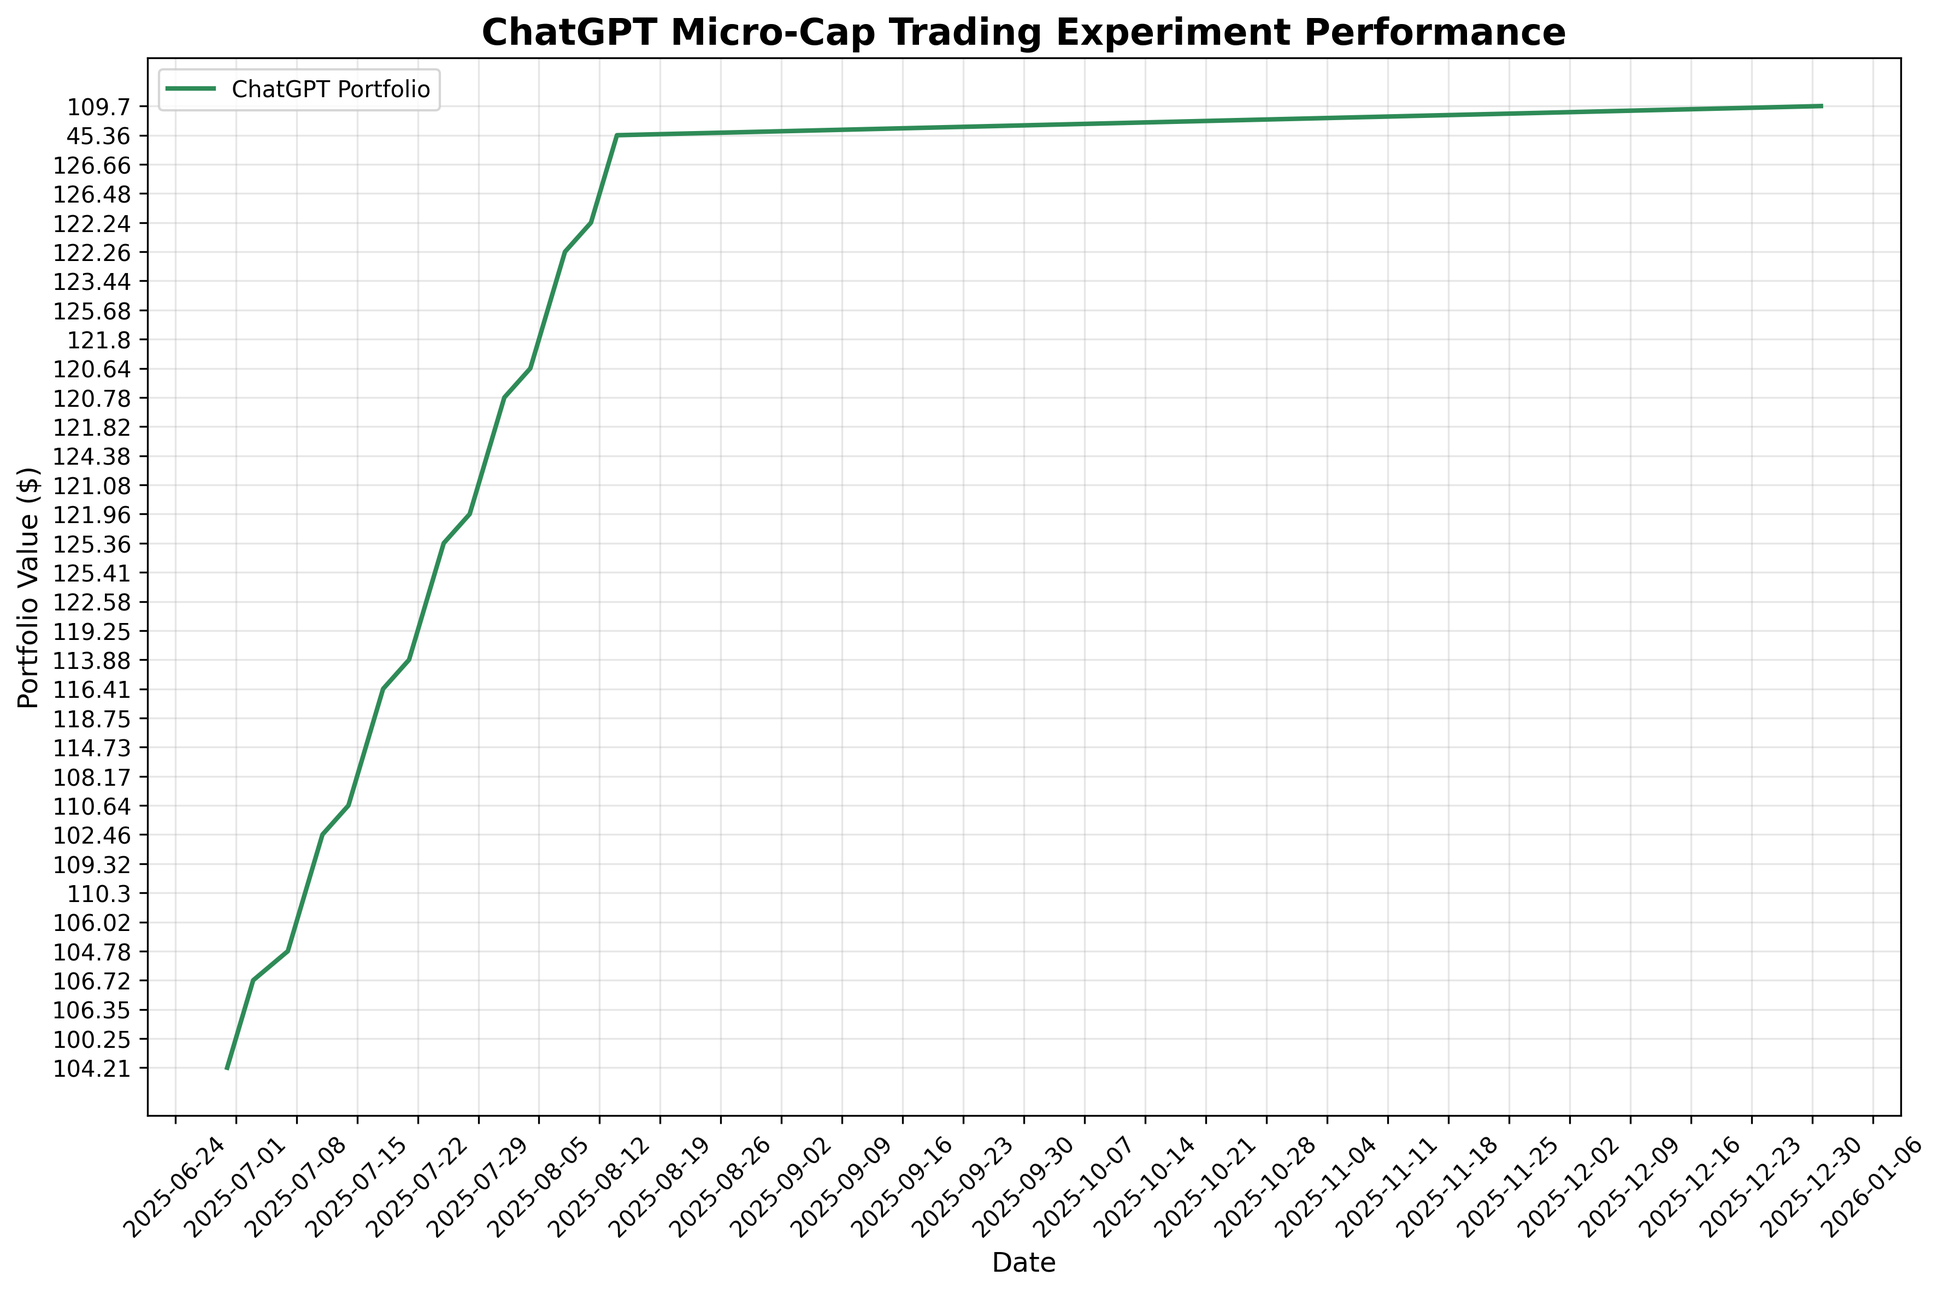
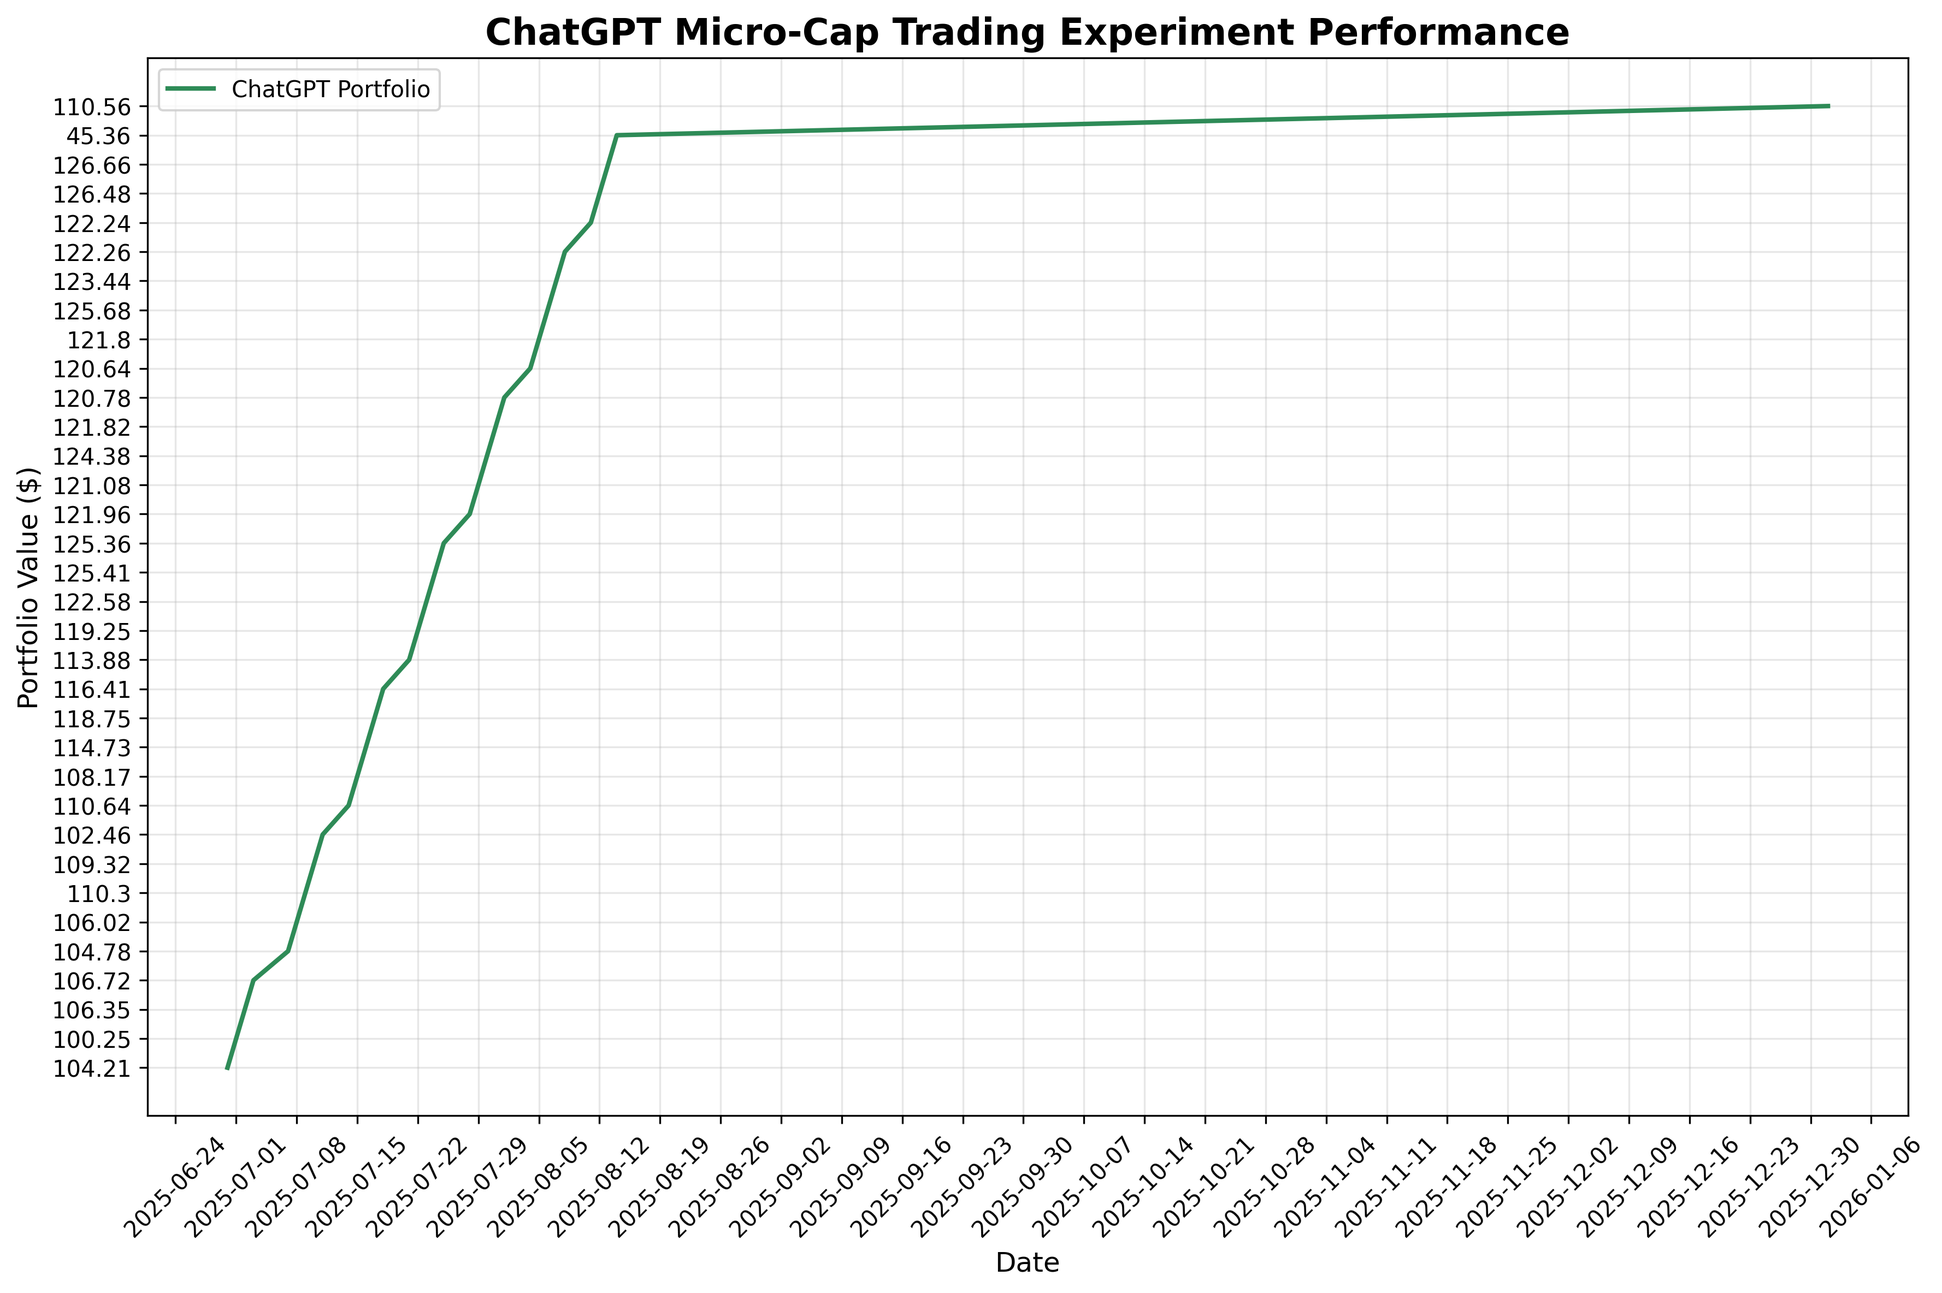
deploy: e15cad030d70fb3fbb51f9df6e22fa70c2f175c0

diff --git a/index.html b/index.html
@@ -105,7 +105,7 @@
                 <div class="stat-label">Total Trades</div>
             </div>
             <div class="stat-card">
-                <div class="stat-value" id="last-updated">2025-12-31</div>
+                <div class="stat-value" id="last-updated">2026-01-01</div>
                 <div class="stat-label">Last Updated</div>
             </div>
         </div>
@@ -160,7 +160,7 @@
     
     <script>
         // Portfolio data
-        const portfolioData = JSON.parse("[{&quot;Date&quot;: &quot;2025-08-11&quot;, &quot;Ticker&quot;: &quot;ABEO&quot;, &quot;Shares&quot;: 4.0, &quot;Buy Price&quot;: 5.77, &quot;Cost Basis&quot;: 23.08, &quot;Stop Loss&quot;: 4.9, &quot;Current Price&quot;: 6.28, &quot;Total Value&quot;: 25.12, &quot;PnL&quot;: 2.04, &quot;Action&quot;: &quot;HOLD&quot;, &quot;Cash Balance&quot;: NaN, &quot;Total Equity&quot;: NaN}, {&quot;Date&quot;: &quot;2025-08-11&quot;, &quot;Ticker&quot;: &quot;ACTU&quot;, &quot;Shares&quot;: 6.0, &quot;Buy Price&quot;: 5.75, &quot;Cost Basis&quot;: 34.5, &quot;Stop Loss&quot;: 4.89, &quot;Current Price&quot;: 8.01, &quot;Total Value&quot;: 48.06, &quot;PnL&quot;: 13.56, &quot;Action&quot;: &quot;HOLD&quot;, &quot;Cash Balance&quot;: NaN, &quot;Total Equity&quot;: NaN}, {&quot;Date&quot;: &quot;2025-08-11&quot;, &quot;Ticker&quot;: &quot;ESPR&quot;, &quot;Shares&quot;: 2.0, &quot;Buy Price&quot;: 1.91, &quot;Cost Basis&quot;: 3.82, &quot;Stop Loss&quot;: 1.6, &quot;Current Price&quot;: 1.85, &quot;Total Value&quot;: 3.7, &quot;PnL&quot;: -0.12, &quot;Action&quot;: &quot;HOLD&quot;, &quot;Cash Balance&quot;: NaN, &quot;Total Equity&quot;: NaN}, {&quot;Date&quot;: &quot;2025-08-11&quot;, &quot;Ticker&quot;: &quot;TOTAL&quot;, &quot;Shares&quot;: NaN, &quot;Buy Price&quot;: NaN, &quot;Cost Basis&quot;: NaN, &quot;Stop Loss&quot;: NaN, &quot;Current Price&quot;: NaN, &quot;Total Value&quot;: 76.88, &quot;PnL&quot;: 15.48, &quot;Action&quot;: NaN, &quot;Cash Balance&quot;: 45.36, &quot;Total Equity&quot;: &quot;122.24&quot;}, {&quot;Date&quot;: &quot;2025-08-12&quot;, &quot;Ticker&quot;: &quot;ABEO&quot;, &quot;Shares&quot;: 4.0, &quot;Buy Price&quot;: 5.77, &quot;Cost Basis&quot;: 23.08, &quot;Stop Loss&quot;: 4.9, &quot;Current Price&quot;: 6.38, &quot;Total Value&quot;: 25.52, &quot;PnL&quot;: 2.44, &quot;Action&quot;: &quot;HOLD&quot;, &quot;Cash Balance&quot;: NaN, &quot;Total Equity&quot;: NaN}, {&quot;Date&quot;: &quot;2025-08-12&quot;, &quot;Ticker&quot;: &quot;ACTU&quot;, &quot;Shares&quot;: 6.0, &quot;Buy Price&quot;: 5.75, &quot;Cost Basis&quot;: 34.5, &quot;Stop Loss&quot;: 4.89, &quot;Current Price&quot;: 8.67, &quot;Total Value&quot;: 52.02, &quot;PnL&quot;: 17.52, &quot;Action&quot;: &quot;HOLD&quot;, &quot;Cash Balance&quot;: NaN, &quot;Total Equity&quot;: NaN}, {&quot;Date&quot;: &quot;2025-08-12&quot;, &quot;Ticker&quot;: &quot;ESPR&quot;, &quot;Shares&quot;: 2.0, &quot;Buy Price&quot;: 1.91, &quot;Cost Basis&quot;: 3.82, &quot;Stop Loss&quot;: 1.6, &quot;Current Price&quot;: 1.79, &quot;Total Value&quot;: 3.58, &quot;PnL&quot;: -0.24, &quot;Action&quot;: &quot;HOLD&quot;, &quot;Cash Balance&quot;: NaN, &quot;Total Equity&quot;: NaN}, {&quot;Date&quot;: &quot;2025-08-12&quot;, &quot;Ticker&quot;: &quot;TOTAL&quot;, &quot;Shares&quot;: NaN, &quot;Buy Price&quot;: NaN, &quot;Cost Basis&quot;: NaN, &quot;Stop Loss&quot;: NaN, &quot;Current Price&quot;: NaN, &quot;Total Value&quot;: 81.12, &quot;PnL&quot;: 19.72, &quot;Action&quot;: NaN, &quot;Cash Balance&quot;: 45.36, &quot;Total Equity&quot;: &quot;126.48&quot;}, {&quot;Date&quot;: &quot;2025-08-13&quot;, &quot;Ticker&quot;: &quot;ABEO&quot;, &quot;Shares&quot;: 4.0, &quot;Buy Price&quot;: 5.77, &quot;Cost Basis&quot;: 23.08, &quot;Stop Loss&quot;: 4.9, &quot;Current Price&quot;: 6.56, &quot;Total Value&quot;: 26.24, &quot;PnL&quot;: 3.16, &quot;Action&quot;: &quot;HOLD&quot;, &quot;Cash Balance&quot;: NaN, &quot;Total Equity&quot;: NaN}, {&quot;Date&quot;: &quot;2025-08-13&quot;, &quot;Ticker&quot;: &quot;ACTU&quot;, &quot;Shares&quot;: 6.0, &quot;Buy Price&quot;: 5.75, &quot;Cost Basis&quot;: 34.5, &quot;Stop Loss&quot;: 4.89, &quot;Current Price&quot;: 8.53, &quot;Total Value&quot;: 51.18, &quot;PnL&quot;: 16.68, &quot;Action&quot;: &quot;HOLD&quot;, &quot;Cash Balance&quot;: NaN, &quot;Total Equity&quot;: NaN}, {&quot;Date&quot;: &quot;2025-08-13&quot;, &quot;Ticker&quot;: &quot;ESPR&quot;, &quot;Shares&quot;: 2.0, &quot;Buy Price&quot;: 1.91, &quot;Cost Basis&quot;: 3.82, &quot;Stop Loss&quot;: 1.6, &quot;Current Price&quot;: 1.94, &quot;Total Value&quot;: 3.88, &quot;PnL&quot;: 0.06, &quot;Action&quot;: &quot;HOLD&quot;, &quot;Cash Balance&quot;: NaN, &quot;Total Equity&quot;: NaN}, {&quot;Date&quot;: &quot;2025-08-13&quot;, &quot;Ticker&quot;: &quot;TOTAL&quot;, &quot;Shares&quot;: NaN, &quot;Buy Price&quot;: NaN, &quot;Cost Basis&quot;: NaN, &quot;Stop Loss&quot;: NaN, &quot;Current Price&quot;: NaN, &quot;Total Value&quot;: 81.3, &quot;PnL&quot;: 19.9, &quot;Action&quot;: NaN, &quot;Cash Balance&quot;: 45.36, &quot;Total Equity&quot;: &quot;126.66&quot;}, {&quot;Date&quot;: &quot;2025-08-14&quot;, &quot;Ticker&quot;: &quot;ABEO&quot;, &quot;Shares&quot;: 4.0, &quot;Buy Price&quot;: 5.77, &quot;Cost Basis&quot;: 23.08, &quot;Stop Loss&quot;: 4.9, &quot;Current Price&quot;: NaN, &quot;Total Value&quot;: NaN, &quot;PnL&quot;: NaN, &quot;Action&quot;: &quot;NO DATA&quot;, &quot;Cash Balance&quot;: NaN, &quot;Total Equity&quot;: NaN}, {&quot;Date&quot;: &quot;2025-08-14&quot;, &quot;Ticker&quot;: &quot;ACTU&quot;, &quot;Shares&quot;: 6.0, &quot;Buy Price&quot;: 5.75, &quot;Cost Basis&quot;: 34.5, &quot;Stop Loss&quot;: 4.89, &quot;Current Price&quot;: NaN, &quot;Total Value&quot;: NaN, &quot;PnL&quot;: NaN, &quot;Action&quot;: &quot;NO DATA&quot;, &quot;Cash Balance&quot;: NaN, &quot;Total Equity&quot;: NaN}, {&quot;Date&quot;: &quot;2025-08-14&quot;, &quot;Ticker&quot;: &quot;ESPR&quot;, &quot;Shares&quot;: 2.0, &quot;Buy Price&quot;: 1.91, &quot;Cost Basis&quot;: 3.82, &quot;Stop Loss&quot;: 1.6, &quot;Current Price&quot;: NaN, &quot;Total Value&quot;: NaN, &quot;PnL&quot;: NaN, &quot;Action&quot;: &quot;NO DATA&quot;, &quot;Cash Balance&quot;: NaN, &quot;Total Equity&quot;: NaN}, {&quot;Date&quot;: &quot;2025-08-14&quot;, &quot;Ticker&quot;: &quot;TOTAL&quot;, &quot;Shares&quot;: NaN, &quot;Buy Price&quot;: NaN, &quot;Cost Basis&quot;: NaN, &quot;Stop Loss&quot;: NaN, &quot;Current Price&quot;: NaN, &quot;Total Value&quot;: 0.0, &quot;PnL&quot;: 0.0, &quot;Action&quot;: NaN, &quot;Cash Balance&quot;: 45.36, &quot;Total Equity&quot;: &quot;45.36&quot;}, {&quot;Date&quot;: &quot;2025-12-31&quot;, &quot;Ticker&quot;: &quot;ABEO&quot;, &quot;Shares&quot;: 4.0, &quot;Buy Price&quot;: 5.77, &quot;Cost Basis&quot;: 23.08, &quot;Stop Loss&quot;: 4.9, &quot;Current Price&quot;: 5.2, &quot;Total Value&quot;: 20.8, &quot;PnL&quot;: -2.28, &quot;Action&quot;: &quot;HOLD&quot;, &quot;Cash Balance&quot;: NaN, &quot;Total Equity&quot;: NaN}, {&quot;Date&quot;: &quot;2025-12-31&quot;, &quot;Ticker&quot;: &quot;ACTU&quot;, &quot;Shares&quot;: 6.0, &quot;Buy Price&quot;: 5.75, &quot;Cost Basis&quot;: 34.5, &quot;Stop Loss&quot;: 4.89, &quot;Current Price&quot;: 6.03, &quot;Total Value&quot;: 36.18, &quot;PnL&quot;: 1.68, &quot;Action&quot;: &quot;HOLD&quot;, &quot;Cash Balance&quot;: NaN, &quot;Total Equity&quot;: NaN}, {&quot;Date&quot;: &quot;2025-12-31&quot;, &quot;Ticker&quot;: &quot;ESPR&quot;, &quot;Shares&quot;: 2.0, &quot;Buy Price&quot;: 1.91, &quot;Cost Basis&quot;: 3.82, &quot;Stop Loss&quot;: 1.6, &quot;Current Price&quot;: 3.68, &quot;Total Value&quot;: 7.36, &quot;PnL&quot;: 3.54, &quot;Action&quot;: &quot;HOLD&quot;, &quot;Cash Balance&quot;: NaN, &quot;Total Equity&quot;: NaN}, {&quot;Date&quot;: &quot;2025-12-31&quot;, &quot;Ticker&quot;: &quot;TOTAL&quot;, &quot;Shares&quot;: NaN, &quot;Buy Price&quot;: NaN, &quot;Cost Basis&quot;: NaN, &quot;Stop Loss&quot;: NaN, &quot;Current Price&quot;: NaN, &quot;Total Value&quot;: 64.34, &quot;PnL&quot;: 2.94, &quot;Action&quot;: NaN, &quot;Cash Balance&quot;: 45.36, &quot;Total Equity&quot;: &quot;109.7&quot;}]");
+        const portfolioData = JSON.parse("[{&quot;Date&quot;: &quot;2025-08-11&quot;, &quot;Ticker&quot;: &quot;ABEO&quot;, &quot;Shares&quot;: 4.0, &quot;Buy Price&quot;: 5.77, &quot;Cost Basis&quot;: 23.08, &quot;Stop Loss&quot;: 4.9, &quot;Current Price&quot;: 6.28, &quot;Total Value&quot;: 25.12, &quot;PnL&quot;: 2.04, &quot;Action&quot;: &quot;HOLD&quot;, &quot;Cash Balance&quot;: NaN, &quot;Total Equity&quot;: NaN}, {&quot;Date&quot;: &quot;2025-08-11&quot;, &quot;Ticker&quot;: &quot;ACTU&quot;, &quot;Shares&quot;: 6.0, &quot;Buy Price&quot;: 5.75, &quot;Cost Basis&quot;: 34.5, &quot;Stop Loss&quot;: 4.89, &quot;Current Price&quot;: 8.01, &quot;Total Value&quot;: 48.06, &quot;PnL&quot;: 13.56, &quot;Action&quot;: &quot;HOLD&quot;, &quot;Cash Balance&quot;: NaN, &quot;Total Equity&quot;: NaN}, {&quot;Date&quot;: &quot;2025-08-11&quot;, &quot;Ticker&quot;: &quot;ESPR&quot;, &quot;Shares&quot;: 2.0, &quot;Buy Price&quot;: 1.91, &quot;Cost Basis&quot;: 3.82, &quot;Stop Loss&quot;: 1.6, &quot;Current Price&quot;: 1.85, &quot;Total Value&quot;: 3.7, &quot;PnL&quot;: -0.12, &quot;Action&quot;: &quot;HOLD&quot;, &quot;Cash Balance&quot;: NaN, &quot;Total Equity&quot;: NaN}, {&quot;Date&quot;: &quot;2025-08-11&quot;, &quot;Ticker&quot;: &quot;TOTAL&quot;, &quot;Shares&quot;: NaN, &quot;Buy Price&quot;: NaN, &quot;Cost Basis&quot;: NaN, &quot;Stop Loss&quot;: NaN, &quot;Current Price&quot;: NaN, &quot;Total Value&quot;: 76.88, &quot;PnL&quot;: 15.48, &quot;Action&quot;: NaN, &quot;Cash Balance&quot;: 45.36, &quot;Total Equity&quot;: &quot;122.24&quot;}, {&quot;Date&quot;: &quot;2025-08-12&quot;, &quot;Ticker&quot;: &quot;ABEO&quot;, &quot;Shares&quot;: 4.0, &quot;Buy Price&quot;: 5.77, &quot;Cost Basis&quot;: 23.08, &quot;Stop Loss&quot;: 4.9, &quot;Current Price&quot;: 6.38, &quot;Total Value&quot;: 25.52, &quot;PnL&quot;: 2.44, &quot;Action&quot;: &quot;HOLD&quot;, &quot;Cash Balance&quot;: NaN, &quot;Total Equity&quot;: NaN}, {&quot;Date&quot;: &quot;2025-08-12&quot;, &quot;Ticker&quot;: &quot;ACTU&quot;, &quot;Shares&quot;: 6.0, &quot;Buy Price&quot;: 5.75, &quot;Cost Basis&quot;: 34.5, &quot;Stop Loss&quot;: 4.89, &quot;Current Price&quot;: 8.67, &quot;Total Value&quot;: 52.02, &quot;PnL&quot;: 17.52, &quot;Action&quot;: &quot;HOLD&quot;, &quot;Cash Balance&quot;: NaN, &quot;Total Equity&quot;: NaN}, {&quot;Date&quot;: &quot;2025-08-12&quot;, &quot;Ticker&quot;: &quot;ESPR&quot;, &quot;Shares&quot;: 2.0, &quot;Buy Price&quot;: 1.91, &quot;Cost Basis&quot;: 3.82, &quot;Stop Loss&quot;: 1.6, &quot;Current Price&quot;: 1.79, &quot;Total Value&quot;: 3.58, &quot;PnL&quot;: -0.24, &quot;Action&quot;: &quot;HOLD&quot;, &quot;Cash Balance&quot;: NaN, &quot;Total Equity&quot;: NaN}, {&quot;Date&quot;: &quot;2025-08-12&quot;, &quot;Ticker&quot;: &quot;TOTAL&quot;, &quot;Shares&quot;: NaN, &quot;Buy Price&quot;: NaN, &quot;Cost Basis&quot;: NaN, &quot;Stop Loss&quot;: NaN, &quot;Current Price&quot;: NaN, &quot;Total Value&quot;: 81.12, &quot;PnL&quot;: 19.72, &quot;Action&quot;: NaN, &quot;Cash Balance&quot;: 45.36, &quot;Total Equity&quot;: &quot;126.48&quot;}, {&quot;Date&quot;: &quot;2025-08-13&quot;, &quot;Ticker&quot;: &quot;ABEO&quot;, &quot;Shares&quot;: 4.0, &quot;Buy Price&quot;: 5.77, &quot;Cost Basis&quot;: 23.08, &quot;Stop Loss&quot;: 4.9, &quot;Current Price&quot;: 6.56, &quot;Total Value&quot;: 26.24, &quot;PnL&quot;: 3.16, &quot;Action&quot;: &quot;HOLD&quot;, &quot;Cash Balance&quot;: NaN, &quot;Total Equity&quot;: NaN}, {&quot;Date&quot;: &quot;2025-08-13&quot;, &quot;Ticker&quot;: &quot;ACTU&quot;, &quot;Shares&quot;: 6.0, &quot;Buy Price&quot;: 5.75, &quot;Cost Basis&quot;: 34.5, &quot;Stop Loss&quot;: 4.89, &quot;Current Price&quot;: 8.53, &quot;Total Value&quot;: 51.18, &quot;PnL&quot;: 16.68, &quot;Action&quot;: &quot;HOLD&quot;, &quot;Cash Balance&quot;: NaN, &quot;Total Equity&quot;: NaN}, {&quot;Date&quot;: &quot;2025-08-13&quot;, &quot;Ticker&quot;: &quot;ESPR&quot;, &quot;Shares&quot;: 2.0, &quot;Buy Price&quot;: 1.91, &quot;Cost Basis&quot;: 3.82, &quot;Stop Loss&quot;: 1.6, &quot;Current Price&quot;: 1.94, &quot;Total Value&quot;: 3.88, &quot;PnL&quot;: 0.06, &quot;Action&quot;: &quot;HOLD&quot;, &quot;Cash Balance&quot;: NaN, &quot;Total Equity&quot;: NaN}, {&quot;Date&quot;: &quot;2025-08-13&quot;, &quot;Ticker&quot;: &quot;TOTAL&quot;, &quot;Shares&quot;: NaN, &quot;Buy Price&quot;: NaN, &quot;Cost Basis&quot;: NaN, &quot;Stop Loss&quot;: NaN, &quot;Current Price&quot;: NaN, &quot;Total Value&quot;: 81.3, &quot;PnL&quot;: 19.9, &quot;Action&quot;: NaN, &quot;Cash Balance&quot;: 45.36, &quot;Total Equity&quot;: &quot;126.66&quot;}, {&quot;Date&quot;: &quot;2025-08-14&quot;, &quot;Ticker&quot;: &quot;ABEO&quot;, &quot;Shares&quot;: 4.0, &quot;Buy Price&quot;: 5.77, &quot;Cost Basis&quot;: 23.08, &quot;Stop Loss&quot;: 4.9, &quot;Current Price&quot;: NaN, &quot;Total Value&quot;: NaN, &quot;PnL&quot;: NaN, &quot;Action&quot;: &quot;NO DATA&quot;, &quot;Cash Balance&quot;: NaN, &quot;Total Equity&quot;: NaN}, {&quot;Date&quot;: &quot;2025-08-14&quot;, &quot;Ticker&quot;: &quot;ACTU&quot;, &quot;Shares&quot;: 6.0, &quot;Buy Price&quot;: 5.75, &quot;Cost Basis&quot;: 34.5, &quot;Stop Loss&quot;: 4.89, &quot;Current Price&quot;: NaN, &quot;Total Value&quot;: NaN, &quot;PnL&quot;: NaN, &quot;Action&quot;: &quot;NO DATA&quot;, &quot;Cash Balance&quot;: NaN, &quot;Total Equity&quot;: NaN}, {&quot;Date&quot;: &quot;2025-08-14&quot;, &quot;Ticker&quot;: &quot;ESPR&quot;, &quot;Shares&quot;: 2.0, &quot;Buy Price&quot;: 1.91, &quot;Cost Basis&quot;: 3.82, &quot;Stop Loss&quot;: 1.6, &quot;Current Price&quot;: NaN, &quot;Total Value&quot;: NaN, &quot;PnL&quot;: NaN, &quot;Action&quot;: &quot;NO DATA&quot;, &quot;Cash Balance&quot;: NaN, &quot;Total Equity&quot;: NaN}, {&quot;Date&quot;: &quot;2025-08-14&quot;, &quot;Ticker&quot;: &quot;TOTAL&quot;, &quot;Shares&quot;: NaN, &quot;Buy Price&quot;: NaN, &quot;Cost Basis&quot;: NaN, &quot;Stop Loss&quot;: NaN, &quot;Current Price&quot;: NaN, &quot;Total Value&quot;: 0.0, &quot;PnL&quot;: 0.0, &quot;Action&quot;: NaN, &quot;Cash Balance&quot;: 45.36, &quot;Total Equity&quot;: &quot;45.36&quot;}, {&quot;Date&quot;: &quot;2026-01-01&quot;, &quot;Ticker&quot;: &quot;ABEO&quot;, &quot;Shares&quot;: 4.0, &quot;Buy Price&quot;: 5.77, &quot;Cost Basis&quot;: 23.08, &quot;Stop Loss&quot;: 4.9, &quot;Current Price&quot;: 5.27, &quot;Total Value&quot;: 21.08, &quot;PnL&quot;: -2.0, &quot;Action&quot;: &quot;HOLD&quot;, &quot;Cash Balance&quot;: NaN, &quot;Total Equity&quot;: NaN}, {&quot;Date&quot;: &quot;2026-01-01&quot;, &quot;Ticker&quot;: &quot;ACTU&quot;, &quot;Shares&quot;: 6.0, &quot;Buy Price&quot;: 5.75, &quot;Cost Basis&quot;: 34.5, &quot;Stop Loss&quot;: 4.89, &quot;Current Price&quot;: 6.12, &quot;Total Value&quot;: 36.72, &quot;PnL&quot;: 2.22, &quot;Action&quot;: &quot;HOLD&quot;, &quot;Cash Balance&quot;: NaN, &quot;Total Equity&quot;: NaN}, {&quot;Date&quot;: &quot;2026-01-01&quot;, &quot;Ticker&quot;: &quot;ESPR&quot;, &quot;Shares&quot;: 2.0, &quot;Buy Price&quot;: 1.91, &quot;Cost Basis&quot;: 3.82, &quot;Stop Loss&quot;: 1.6, &quot;Current Price&quot;: 3.7, &quot;Total Value&quot;: 7.4, &quot;PnL&quot;: 3.58, &quot;Action&quot;: &quot;HOLD&quot;, &quot;Cash Balance&quot;: NaN, &quot;Total Equity&quot;: NaN}, {&quot;Date&quot;: &quot;2026-01-01&quot;, &quot;Ticker&quot;: &quot;TOTAL&quot;, &quot;Shares&quot;: NaN, &quot;Buy Price&quot;: NaN, &quot;Cost Basis&quot;: NaN, &quot;Stop Loss&quot;: NaN, &quot;Current Price&quot;: NaN, &quot;Total Value&quot;: 65.2, &quot;PnL&quot;: 3.8, &quot;Action&quot;: NaN, &quot;Cash Balance&quot;: 45.36, &quot;Total Equity&quot;: &quot;110.56&quot;}]");
         const tradeData = JSON.parse("[{&quot;Date&quot;: &quot;2025-07-07&quot;, &quot;Ticker&quot;: &quot;CSAI&quot;, &quot;Shares Bought&quot;: NaN, &quot;Buy Price&quot;: NaN, &quot;Cost Basis&quot;: 1.9, &quot;PnL&quot;: 5.7, &quot;Reason&quot;: &quot;MANUAL SELL - Rotated into AZTR&quot;, &quot;Shares Sold&quot;: 15.0, &quot;Sell Price&quot;: 2.28}, {&quot;Date&quot;: &quot;2025-07-08&quot;, &quot;Ticker&quot;: &quot;IINN&quot;, &quot;Shares Bought&quot;: 20.0, &quot;Buy Price&quot;: 1.5, &quot;Cost Basis&quot;: 30.0, &quot;PnL&quot;: 0.0, &quot;Reason&quot;: &quot;MANUAL BUY - New position&quot;, &quot;Shares Sold&quot;: NaN, &quot;Sell Price&quot;: NaN}, {&quot;Date&quot;: &quot;2025-07-21&quot;, &quot;Ticker&quot;: &quot;CADL&quot;, &quot;Shares Bought&quot;: NaN, &quot;Buy Price&quot;: NaN, &quot;Cost Basis&quot;: 25.2, &quot;PnL&quot;: 8.5, &quot;Reason&quot;: &quot;MANUAL SELL - GAIN CAPITAL FOR ACTU&quot;, &quot;Shares Sold&quot;: 5.0, &quot;Sell Price&quot;: 6.59}, {&quot;Date&quot;: &quot;2025-07-21&quot;, &quot;Ticker&quot;: &quot;ACTU&quot;, &quot;Shares Bought&quot;: 6.0, &quot;Buy Price&quot;: 5.75, &quot;Cost Basis&quot;: 34.5, &quot;PnL&quot;: 0.0, &quot;Reason&quot;: &quot;MANUAL BUY - New position&quot;, &quot;Shares Sold&quot;: NaN, &quot;Sell Price&quot;: NaN}, {&quot;Date&quot;: &quot;2025-07-28&quot;, &quot;Ticker&quot;: &quot;IINN&quot;, &quot;Shares Bought&quot;: NaN, &quot;Buy Price&quot;: NaN, &quot;Cost Basis&quot;: 9.0, &quot;PnL&quot;: -0.5400000000000009, &quot;Reason&quot;: &quot;MANUAL SELL - POSITION REDUCTION&quot;, &quot;Shares Sold&quot;: 6.0, &quot;Sell Price&quot;: 1.41}, {&quot;Date&quot;: &quot;2025-07-29&quot;, &quot;Ticker&quot;: &quot;AZTR&quot;, &quot;Shares Bought&quot;: NaN, &quot;Buy Price&quot;: NaN, &quot;Cost Basis&quot;: 13.75, &quot;PnL&quot;: -2.75, &quot;Reason&quot;: &quot;MANUAL SELL - DILUTION RISK&quot;, &quot;Shares Sold&quot;: 55.0, &quot;Sell Price&quot;: 0.2}, {&quot;Date&quot;: &quot;2025-08-01&quot;, &quot;Ticker&quot;: &quot;IINN&quot;, &quot;Shares Bought&quot;: 2.0, &quot;Buy Price&quot;: 1.74, &quot;Cost Basis&quot;: 3.48, &quot;PnL&quot;: 0.0, &quot;Reason&quot;: &quot;MANUAL BUY - New position&quot;, &quot;Shares Sold&quot;: NaN, &quot;Sell Price&quot;: NaN}, {&quot;Date&quot;: &quot;2025-08-01&quot;, &quot;Ticker&quot;: &quot;ABEO&quot;, &quot;Shares Bought&quot;: NaN, &quot;Buy Price&quot;: NaN, &quot;Cost Basis&quot;: 11.54, &quot;PnL&quot;: 1.200000000000001, &quot;Reason&quot;: &quot;MANUAL SELL - TRIM AFTER SUPPORT LOSS&quot;, &quot;Shares Sold&quot;: 2.0, &quot;Sell Price&quot;: 6.37}, {&quot;Date&quot;: &quot;2025-08-07&quot;, &quot;Ticker&quot;: &quot;ESPR&quot;, &quot;Shares Bought&quot;: 2.0, &quot;Buy Price&quot;: 1.91, &quot;Cost Basis&quot;: 3.82, &quot;PnL&quot;: 0.0, &quot;Reason&quot;: &quot;MANUAL BUY - New position&quot;, &quot;Shares Sold&quot;: NaN, &quot;Sell Price&quot;: NaN}, {&quot;Date&quot;: &quot;2025-08-08&quot;, &quot;Ticker&quot;: &quot;IINN&quot;, &quot;Shares Bought&quot;: NaN, &quot;Buy Price&quot;: NaN, &quot;Cost Basis&quot;: 1.5, &quot;PnL&quot;: -6.4, &quot;Reason&quot;: &quot;AUTOMATED SELL - STOPLOSS TRIGGERED&quot;, &quot;Shares Sold&quot;: 16.0, &quot;Sell Price&quot;: 1.1}]");
         
         // Update total equity
